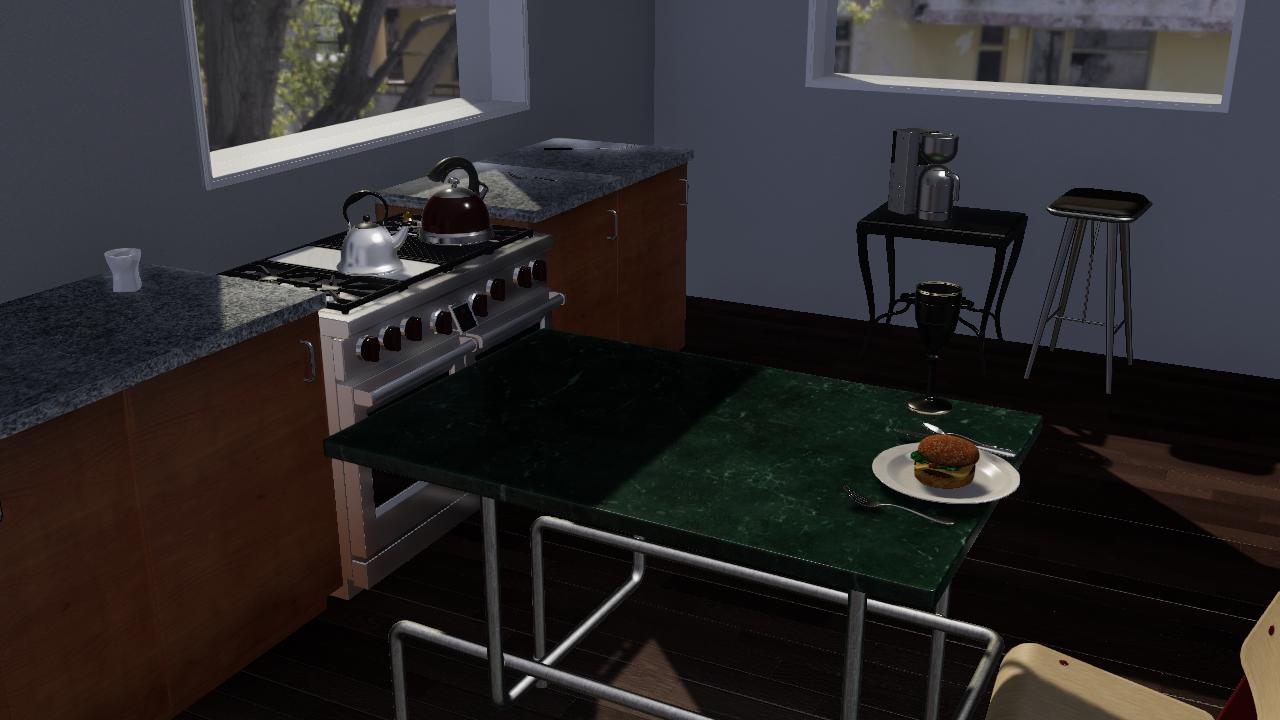
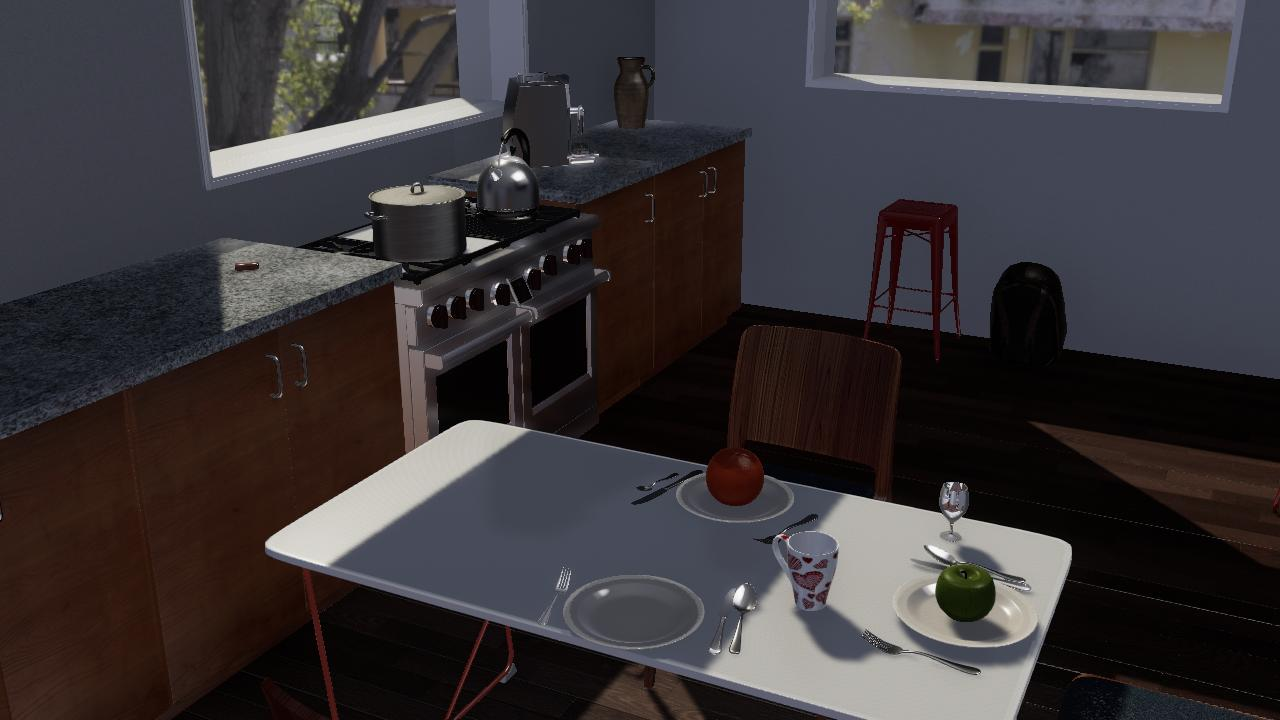
more docs

diff --git a/Documentation/lessons/scene_setup_high_level/proc_gen_kitchen.md b/Documentation/lessons/scene_setup_high_level/proc_gen_kitchen.md
@@ -31,6 +31,12 @@ Result:
 
 ![](images/proc_gen_kitchen/minimal.jpg)
 
+## How `ProcGenKitchen` works
+
+[A detailed explanation of how `ProcGenKitchen` works can be found in the API documentation.](../../python/add_ons/proc_gen_kitchen.md) Broadly speaking, `ProcGenKitchen` has a notion of [arrangements of objects](arrangements.md), such as a shelf with objects on it. It then uses places quasi-atomic arrangements in the scene, for example creating a lateral span of kitchen counters.
+
+When reading the API documentation, be sure to click through to the documentation for each `Arrangement`. `ProcGenKitchen` has a few parameters (such as `SCENE_NAMES`) but *most* of the parameters affecting kitchen generation are actually in [`Arrangement`](../../python/proc_gen/arrangement.md) and its subclasses.
+
 ## The `rng` parameter
 
 If you try to run the previous example, you'll get a different image because every kitchen scene is randomly generated. `proc_gen_kitchen` includes an optional `rng` parameter that can be either an integer or a numpy RandomState object (for example: `rng=numpy.random.RandomState(0)`).
@@ -109,8 +115,8 @@ from tdw.backend.paths import EXAMPLE_CONTROLLER_OUTPUT_PATH
 path = EXAMPLE_CONTROLLER_OUTPUT_PATH.joinpath("proc_gen_kitchen_scene")
 print(f"Images will be saved to: {path}")
 proc_gen_kitchen = ProcGenKitchen()
-proc_gen_kitchen.create(scene="mm_craftroom_2a", rng=0)
-camera = ThirdPersonCamera(position={"x": -2, "y": 1.8, "z": -0.5},
+proc_gen_kitchen.create(scene="mm_kitchen_2b", rng=0)
+camera = ThirdPersonCamera(position={"x": -2, "y": 1.8, "z": -1},
                            look_at={"x": 0, "y": 0.6, "z": 0},
                            avatar_id="a")
 capture = ImageCapture(avatar_ids=["a"], path=path, pass_masks=["_img"])
@@ -128,15 +134,9 @@ Result:
 
 The `room_index` parameter is mostly for future-proofing `ProcGenKitchen` for a time when it can be used in a multi-room scene; this parameter should almost always be set to 0 (the default value).
 
-## How `ProcGenKitchen` works
-
-[A detailed explanation of how `ProcGenKitchen` works can be found in the API documentation.](../../python/add_ons/proc_gen_kitchen.md) Broadly speaking, `ProcGenKitchen` has a notion of [arrangements of objects](arrangements.md), such as a shelf with objects on it. It then uses places quasi-atomic arrangements in the scene, for example creating a lateral span of kitchen counters.
-
-When reading the API documentation, be sure to click through to the documentation for each `Arrangement`. `ProcGenKitchen` has a few parameters (such as `SCENE_NAMES`) but *most* of the parameters affecting kitchen generation are actually in [`Arrangement`](../../python/proc_gen/arrangement.md) and its subclasses.
-
 ## `ProcGenKitchen` models
 
-The models used in `ProcGenKitchen` are stored [`Arrangement.MODEL_CATEGORIES`](../../python/proc_gen/arrangement.md). This is dictionary that has been curated from the overall list of models. The key of `Arrangement.MODEL_CATEGORIES` is a "proc-gen category", which overlaps with `model_record.wcategory` but is often not the same. For example, in TDW kitchen counters and wall cabinets have the same `wcategory` but not the same proc-gen category:
+The models used in `ProcGenKitchen` are stored [`Arrangement.MODEL_CATEGORIES`](../../python/proc_gen/arrangement.md). This is dictionary that has been curated from the overall list of models. The key of `Arrangement.MODEL_CATEGORIES` is a "proc-gen category", which overlaps with [`model_record.wcategory`](../../python/librarian/model_librarian.md) but is often not the same. For example, in TDW kitchen counters and wall cabinets have the same `wcategory` but not the same proc-gen category:
 
 ```python
 from tdw.proc_gen.arrangements.arrangement import Arrangement
@@ -186,43 +186,6 @@ from tdw.add_ons.image_capture import ImageCapture
 from tdw.add_ons.interior_scene_lighting import InteriorSceneLighting
 from tdw.backend.paths import EXAMPLE_CONTROLLER_OUTPUT_PATH
 
-"""
-ProcGenKitchen with realistic lighting.
-"""
-
-path = EXAMPLE_CONTROLLER_OUTPUT_PATH.joinpath("proc_gen_kitchen_lighting")
-print(f"Images will be saved to: {path}")
-proc_gen_kitchen = ProcGenKitchen()
-random_seed = 14
-proc_gen_kitchen.create(rng=np.random.RandomState(random_seed))
-interior_scene_lighting = InteriorSceneLighting(rng=np.random.RandomState(random_seed))
-camera = ThirdPersonCamera(position={"x": -1, "y": 1.8, "z": 2},
-                           look_at={"x": 0, "y": 1, "z": 0},
-                           avatar_id="a")
-capture = ImageCapture(avatar_ids=["a"], path=path, pass_masks=["_img"])
-c = Controller()
-c.add_ons.extend([proc_gen_kitchen, interior_scene_lighting, camera, capture])
-c.communicate([{"$type": "set_screen_size",
-                "width": 1280,
-                "height": 720}])
-c.communicate({"$type": "terminate"})
-```
-
-Result:
-
-```python
-import numpy as np
-from tdw.controller import Controller
-from tdw.add_ons.proc_gen_kitchen import ProcGenKitchen
-from tdw.add_ons.third_person_camera import ThirdPersonCamera
-from tdw.add_ons.image_capture import ImageCapture
-from tdw.add_ons.interior_scene_lighting import InteriorSceneLighting
-from tdw.backend.paths import EXAMPLE_CONTROLLER_OUTPUT_PATH
-
-"""
-ProcGenKitchen with realistic lighting.
-"""
-
 path = EXAMPLE_CONTROLLER_OUTPUT_PATH.joinpath("proc_gen_kitchen_lighting")
 print(f"Images will be saved to: {path}")
 proc_gen_kitchen = ProcGenKitchen()
@@ -244,3 +207,58 @@ c.communicate({"$type": "terminate"})
 Result:
 
 ![](images/proc_gen_kitchen/lighting.jpg)
+
+## Saving scene setup commands
+
+Whenever `ProcGenKitchen` is updated, it is possible that a random seed used in a previous version will generate a different scene in a newer version. In fact, it's likely that subsequent changes to `ProcGenKitchen` since this document has written have adjusted the procedural generator such that if you run the example controllers, you'll capture different images.
+
+In order to guarantee that you can recreate a kitchen scene,  you can save the list of commands in addition to the random seed.
+
+When you call `proc_gen_kitchen.create()`, the add-on appends a long list of commands to `proc_gen_kitchen.commands`. As with all other [add-ons](../core_concepts/add_ons.md), the `commands` list will be automatically sent to the build the next time `c.communicate()` is called.
+
+You can save `proc_gen_kitchen.commands` to a JSON file like this:
+
+```python
+from json import dumps
+from pathlib import Path
+from tdw.add_ons.proc_gen_kitchen import ProcGenKitchen
+
+proc_gen_kitchen = ProcGenKitchen()
+proc_gen_kitchen.create(rng=0)
+Path("proc_gen_kitchen.json").write_text(dumps(proc_gen_kitchen.commands))
+```
+
+...and then reload them like this:
+
+```python
+from json import loads
+from pathlib import Path
+from tdw.controller import Controller
+
+c = Controller()
+c.communicate(loads(Path("proc_gen_kitchen.json").read_text()))
+```
+
+***
+
+**Next: [Regions, interior regions, and rooms](rooms.md)**
+
+[Return to the README](../../../README.md)
+
+***
+
+Example controllers:
+
+- [proc_gen_kitchen_minimal.py](https://github.com/threedworld-mit/tdw/blob/master/Python/example_controllers/scene_setup_high_level/proc_gen_kitchen_minimal.py) Minimal example of the proc-gen kitchen.
+- [proc_gen_kitchen_lighting.py](https://github.com/threedworld-mit/tdw/blob/master/Python/example_controllers/scene_setup_high_level/proc_gen_kitchen_lighting.py) ProcGenKitchen with realistic lighting.
+
+Python API:
+
+- [`ProcGenKitchen`](../../python/add_ons/proc_gen_kitchen.md)
+- [`Arrangement`](../../python/proc_gen/arrangement.md)
+- [`SceneRecord`](../../python/librarian/scene_librarian.md)
+- [`ModelRecord`](../../python/librarian/model_librarian.md)
+- [`Room`](../../python/scene_data/room.md)
+- [`ThirdPersonCamera`](../../python/add_ons/third_person_camera.md)
+- [`ImageCapture`](../../python/add_ons/image_capture.md)
+- [`InteriorSceneLighting`](../../python/add_ons/interior_scene_lighting.md)

diff --git a/Documentation/lessons/scene_setup_high_level/rooms.md b/Documentation/lessons/scene_setup_high_level/rooms.md
@@ -1,0 +1,131 @@
+##### Scene Setup (High-Level APIs)
+
+# Regions, interior regions, and rooms
+
+[`ProcGenKitchen`](proc_gen_kitchen.md) relies on cached *scene room data* in order to populate the scene with objects.
+
+## Runtime data
+
+`ProcGenKitchen` does *not* use scene data calculated at runtime, but it can be helpful to understand this data in order to understand the cached scene data:
+
+By sending [`send_scene_regions`](../../api/command_api.md#send_scene_regions), a controller can receive [`SceneRegions`](../../api/output_data.md#SceneRegions) output data. You can then convert `SceneRegions` into the more convenient [`SceneBounds`](../../python/scene_data/scene_bounds.md) data class. `SceneBounds` includes the bounds of the scene as well as the [`RegionBounds`](../../python/scene_data/region_bounds.md). A region is an empty space within a scene that can be used for object placement.
+
+Regions are always box-shaped.
+
+In [streamed scenes](../core_concepts/scenes.md) the scene regions were set up manually as part of the scene creation process. This is a fast process that is adequate for most projects. However, it is insufficient for `ProcGenKitchen` because the add-on needs to programmatically place objects *exactly* flush to the wall. It also doesn't include some information that `ProcGenKitchen` requires.
+
+## Cached data
+
+Each [`SceneRecord`](../../python/librarian/scene_librarian.md) has a list called `rooms`, which is a list of cached [`Room`](../../python/scene_data/room.md) data. A `Room` has two fields:
+
+- `main_region` An [`InteriorRegion`](../../python/scene_data/interior_region.md) 
+- `alcoves` A list of `InteriorRegion`
+
+Rooms can have more than one region (a main region plus one or more alcoves) if it isn't box-shaped. For example, the scene `mm_kitchen_4a` is a single T-shaped room:
+
+![](../core_concepts/images/scenes/mm_kitchen_4a.jpg)
+
+The top of the T is an alcove region and the bottom of the T is the main region.
+
+The differentiation between "main" regions and "alcove" regions is used in `ProcGenKitchen` for object placement. Most objects, such as kitchen counters, will be placed in the "main" region.
+
+[`InteriorRegion`](../../python/scene_data/interior_region.md) is a subclass of [`RegionBounds`](../../python/scene_data/region_bounds.md) with two extra fields:
+
+- `non_continuous_walls` is an integer describing which walls are missing, have doorways, etc. This data can be used in procedural generators such as `ProcGenKitchen` to avoid creating barricades of objects in the middle of the room.
+
+```python
+from tdw.librarian import SceneLibrarian
+
+lib = SceneLibrarian()
+record = lib.get_record("mm_kitchen_4a")
+print(record.rooms[0].main_region.non_continuous_walls)
+```
+
+Output:
+
+```
+1
+```
+
+To convert this into a human-readable direction, you can use the enum values of the [`CardinalDirection`](../python/cardinal_direction.md) class:
+
+```python
+from tdw.librarian import SceneLibrarian
+from tdw.cardinal_direction import CardinalDirection
+
+lib = SceneLibrarian()
+record = lib.get_record("mm_kitchen_4a")
+for direction in CardinalDirection:
+    if direction & record.rooms[0].main_region.non_continuous_walls != 0:
+        print(direction)
+```
+
+Output:
+
+```
+CardinalDirection.north
+```
+
+...which is correct! The main region of `mm_kitchen_4a` doesn't have a wall to its north; instead, it connects to the alcove region.
+
+- `walls_with_windows` is an integer describing which walls in the region have windows. This can be used in procedural generation to avoid placing tall objects in front of windows:
+
+```python
+from tdw.librarian import SceneLibrarian
+from tdw.cardinal_direction import CardinalDirection
+
+lib = SceneLibrarian()
+record = lib.get_record("mm_kitchen_4a")
+for direction in CardinalDirection:
+    if direction & record.rooms[0].main_region.walls_with_windows != 0:
+        print(direction)
+```
+
+Output:
+
+```
+CardinalDirection.east
+CardinalDirection.south
+CardinalDirection.west
+```
+
+## Cached regions vs. runtime regions
+
+The regions cached in `SceneRecord` are slightly different sizes than the runtime data calculated via the `send_scene_regions` command. This is because the cached data was programmatically calculated rather than set up manually.
+
+## Automatically calculating `Room` data
+
+At present, there is no way to automatically calculate `Room` data for several reasons:
+
+- There is no way at present to calculate where non-continuous walls are or where windows are.
+- Automatically calculating region bounds is a non-trival task. For example, `mm_kitchen_4a` is currently divided into 2 regions, but could be divided into 4, which is *algorithmically* correct but not useful for procedural generation. Right now, it's unclear how to algorithmically decide which subdivision is more useful. In the example below, the *top-left* diagram is the "best" option (and the one currently being used) but any of the others could feasibly be programmatically calculated:
+
+![](images/interior_regions.jpg)
+
+Accordingly, we strongly recommend that you use pre-existing cached `Room` data in the `SceneRecord` rather than attempt to calculate your own room data.
+
+***
+
+**Next: [Procedural object arrangements](arrangements.md)**
+
+[Return to the README](../../../README.md)
+
+***
+
+Python API:
+
+- [`ProcGenKitchen`](../../python/add_ons/proc_gen_kitchen.md)
+- [`SceneBounds`](../../python/scene_data/scene_bounds.md) 
+- [`RegionBounds`](../../python/scene_data/region_bounds.md)
+- [`SceneRecord`](../../python/librarian/scene_librarian.md) 
+- [`Room`](../../python/scene_data/room.md)
+- [`InteriorRegion`](../../python/scene_data/interior_region.md)
+- [`CardinalDirection`](../python/cardinal_direction.md)
+
+Command API:
+
+- [`send_scene_regions`](../../api/command_api.md#send_scene_regions)
+
+Output Data:
+
+- [`SceneRegions`](../../api/output_data.md#SceneRegions) 

diff --git a/README.md b/README.md
@@ -46,10 +46,10 @@
 
 ### 2.1.1 Scene Setup (High-Level API)
 
-1. Overview
-2. [Procedural generation (the `ProcGenKitchen` add-on)](Documentation/lessons/objects_and_scenes/proc_gen_kitchen.md)
-2. Regions, interior regions, and rooms
-3. [Procedural object arrangements](Documentation/lessons/objects_and_scenes/arrangements.md)
+1. [Overview](Documentation/lessons/scene_setup_high_level/overview.md)
+2. [Procedural generation (the `ProcGenKitchen` add-on)](Documentation/lessons/scene_setup_high_level/proc_gen_kitchen.md)
+2. [Regions, interior regions, and rooms](Documentation/lessons/scene_setup_high_level/rooms.md)
+3. [Procedural object arrangements](Documentation/lessons/scene_setup_high_level/arrangements.md)
 4. [Scripted object placement (floorplan layouts)](Documentation/lessons/objects_and_scenes/floorplans.md)
 5. [Reset a scene](Documentation/lessons/objects_and_scenes/reset_scene.md)
 

diff --git a/Documentation/lessons/scene_setup_high_level/arrangements.md b/Documentation/lessons/scene_setup_high_level/arrangements.md
@@ -1,0 +1,4 @@
+##### Scene Setup (High-Level APIs)
+
+# Procedural object arrangements
+
